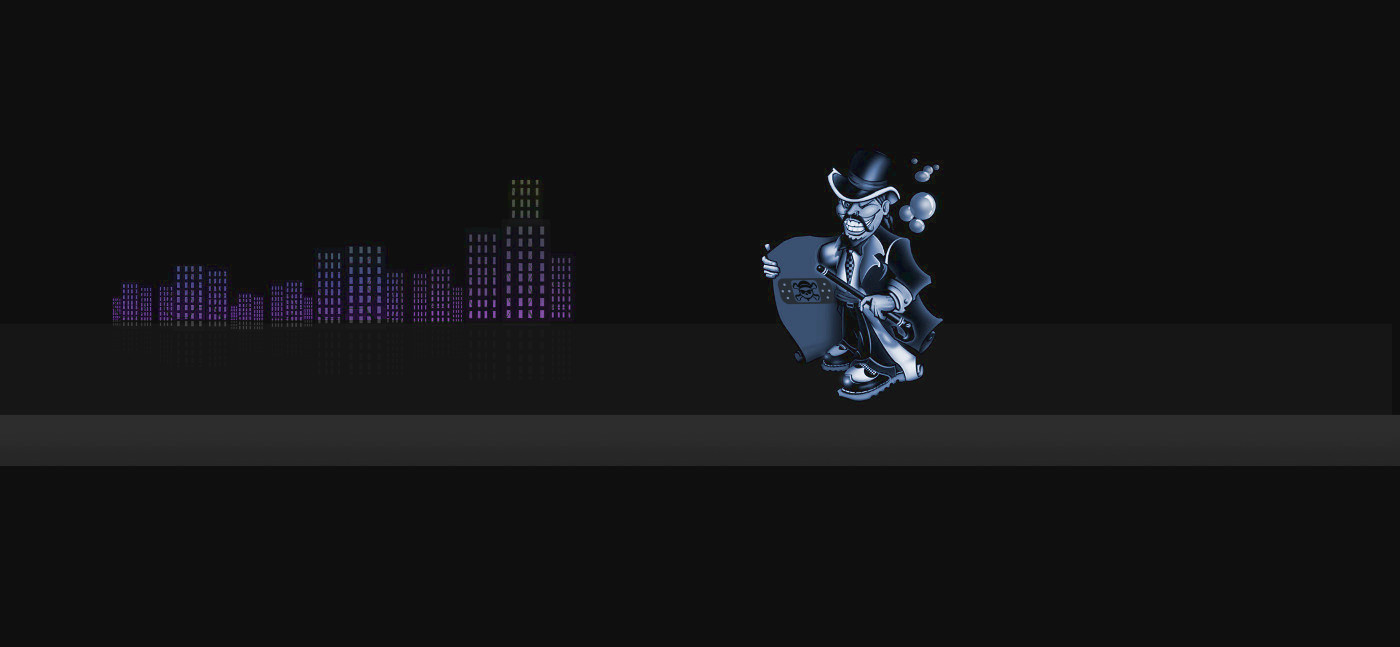
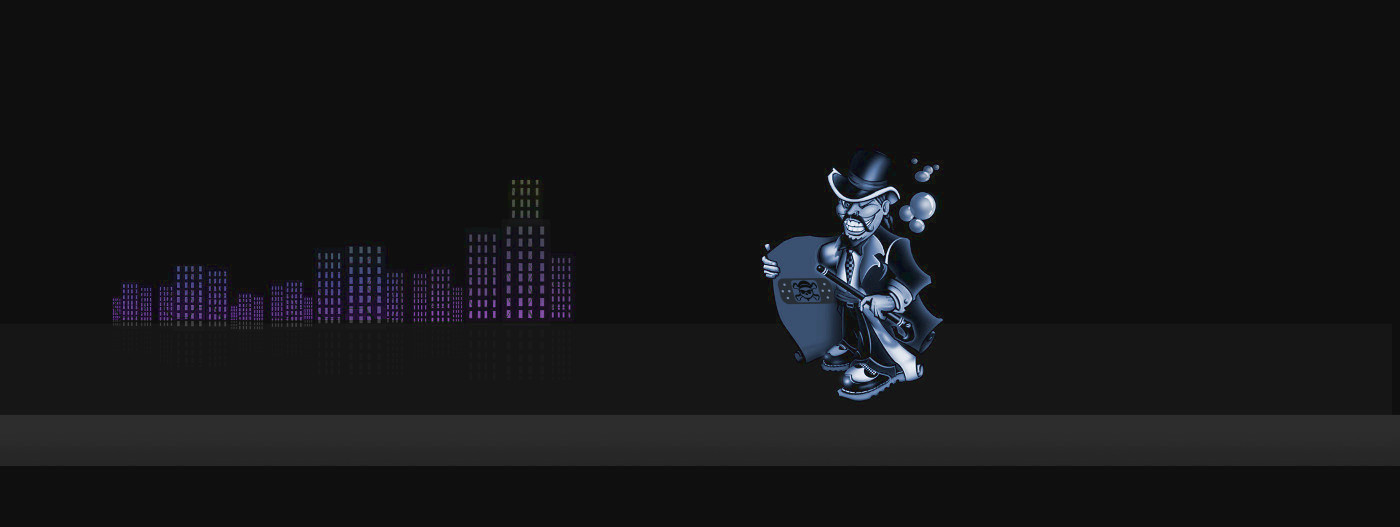
Merged most of var colors to base using CSS vars instead

diff --git a/src/css/index.css b/src/css/index.css
@@ -7,15 +7,33 @@
   -webkit-transition: .5s;
   transition: .5s; }
 
+mark,
+code,
 .current, .ul-nav li, .button-global, .button-light, .container-gallery .grid-gallery-cell {
   border-radius: 0.25rem; }
 
+:root {
+  --primary-color: #545b71;
+  --secondary-color: #0f0f0f;
+  --triadic-color: #000;
+  --accent-color: #3e4451;
+  --text-color: #ddeaf2;
+  --titles-color: #545b71;
+  --a-color: #ddeaf2;
+  --h-color: #90a4ae;
+  --p-color: #fff;
+  --theme1-color: #0f0f0f;
+  --theme2-color: #272b35;
+  --container-color: #1e1f24; }
+
 html {
-  background: #545b71;
-  color: #ddeaf2;
-  font-family: "Open Sans", "Helvetica Neue Light", "Helvetica Neue", "Helvetica", "Arial", sans-serif;
   font-size: 100%;
   line-height: 1.5; }
+
+body {
+  background-color: var(--triadic-color);
+  color: var(--text-color);
+  font-family: "Open Sans", "Helvetica Neue Light", "Helvetica Neue", "Helvetica", "Arial", sans-serif; }
 
 *,
 *::before,
@@ -37,14 +55,13 @@ img {
 mark,
 code,
 .current {
-  background-color: #545b71;
-  color: black;
+  background-color: var(--accent-color);
   padding: 0.25rem; }
 
 h1,
 h2,
 h3 {
-  color: #b0c4df;
+  color: var(--h-color);
   font-weight: 700; }
 
 .h1-header {
@@ -52,12 +69,12 @@ h3 {
   text-align: center; }
 
 .titles {
-  color: #545b71;
+  color: var(--titles-color);
   margin: 1.25rem 0;
   text-align: center; }
 
 .header-section {
-  background-color: #0f0f0f;
+  background-color: var(--container-color);
   grid-area: headerTem; }
 
 .logo-icon,
@@ -67,7 +84,7 @@ h3 {
   margin: 1rem auto; }
 
 .nav-section {
-  background-color: #272b35;
+  background-color: var(--theme2-color);
   grid-area: navTem;
   height: calc(12.5rem + 3.125rem);
   overflow: hidden;
@@ -90,7 +107,7 @@ h3 {
     .ul-nav li:hover {
       background-color: #545b71; }
   .ul-nav a {
-    color: #ddeaf2;
+    color: var(--a-color);
     display: block;
     padding: 0.5rem 1.25rem;
     text-align: center; }
@@ -99,7 +116,7 @@ h3 {
   height: 0; }
 
 .hero-section {
-  background-color: #0f0f0f;
+  background-color: var(--theme1-color);
   grid-area: heroTem; }
 
 .hero-image, .landing-page {
@@ -113,15 +130,15 @@ h3 {
   min-height: 60vh; }
 
 .sidebar1-section {
-  background-color: #272b35;
+  background-color: var(--theme2-color);
   grid-area: sidebar1Tem; }
 
 .sidebar2-section {
-  background-color: #272b35;
+  background-color: var(--theme2-color);
   grid-area: sidebar2Tem; }
 
 .main-section {
-  background-color: #272b35;
+  background-color: var(--theme2-color);
   grid-area: mainTem; }
 
 .open-section {
@@ -152,7 +169,7 @@ h3 {
     font-size: 2.5rem; }
 
 .footer-section {
-  background-color: #0f0f0f;
+  background-color: var(--theme1-color);
   grid-area: footerTem;
   text-align: center; }
 
@@ -174,7 +191,7 @@ h3 {
     color: #0f0f0f; }
 
 .container-display, .container-gallery {
-  background-color: #1e1f24;
+  background-color: var(--container-color);
   display: grid; }
 
 .container-display {

diff --git a/src/scss/a_core_helpers/_a-variables.scss b/src/scss/a_core_helpers/_a-variables.scss
@@ -1,30 +1,24 @@
 // Sass variables
-// ------------------------------- @COLORES ----------------------------------
+// ------------------------------- @COLORS ----------------------------------
 // Basic:
 $black: rgba(0, 0, 0, 1);
-$grey: rgba(153, 153, 153, 1);
-$orange: rgba(255, 165, 0, 1);
-$purple: rgba(128, 0, 128, 1);
-$red: rgba(255, 0, 0, 1);
+$orange: rgba(255, 165, 0, 1); // Basically I use this for testing
+$red: rgba(255, 0, 0, 1);  // Basically I use this for testing
 $white: rgba(255, 255, 255, 1);
+
+// Final CSS color variables are in _d-base.scss
+// Might merge all colors to base instead?
 
 // Named:
 $cement: rgba(84, 91, 113, 1);
-$cement-dark: rgba(39, 43, 53, 1);
 $fog: rgba(221, 234, 242, 1);
-$grisaille: rgba(144, 164, 174, 1);
+$grey: rgba(153, 153, 153, 1);
+$cloud: rgba(144, 164, 174, 1);
 $charcoal: rgba(30, 31, 36, 1);
 $mist: rgba(176, 196, 223, 1);
 $midnight: rgba(15, 15, 15, 1);
 
-// Container's Colors:
-$body-html-color: $cement;
-$container-color: $charcoal;
-$global-theme-color: $black;
-$theme1-color: $midnight;
-$theme2-color: $cement-dark;
-
-// ------------------------------- @FONTS --------------  ----------------------
+// ------------------------------- @FONTS --------------------------------------
 
 // $unique-font: 'SomeGoogleFontETC', cursive;
 
@@ -32,14 +26,6 @@ $theme2-color: $cement-dark;
 $text-font-stack: 'Open Sans', 'Helvetica Neue Light', 'Helvetica Neue', 'Helvetica', 'Arial', sans-serif !default;
 // Code (monospace) font family
 $code-font-stack: 'Courier New', 'DejaVu Sans Mono', 'Bitstream Vera Sans Mono', 'Monaco', monospace !default;
-
-//Typography Colors:
-$a-color: $fog;
-$h-color: $mist;
-$li-color: $orange;
-$p-color: $white;
-$text-color: $fog;
-$titles-color: $cement;
 
 // ----------------------------- @GLOBAL SIZES ---------------------------------
 //Based on 16px:

diff --git a/src/scss/a_core_helpers/_d-base.scss b/src/scss/a_core_helpers/_d-base.scss
@@ -1,19 +1,38 @@
-// The Base:, basically a simple reset file. Comment-out, delete and or compare
-// This file with other vendor resets.
+// The Base: If using other vendor resets, comment-out, delete and or compare
+// this file with other vendor resets.
+// Sass/SCSS linters give an error due to the :root/CSS vars.
 // -----------------------------------------------------------------------------
 
-//:root {}
+:root {
+  // Base Color CSS Variables:
+  --primary-color: #545b71;
+  --secondary-color: #0f0f0f;
+  --triadic-color: #000;
+  --accent-color: #3e4451;
 
-//body {}
+  // Typography Colors:
+  --text-color: #ddeaf2;
+  --titles-color: #545b71;
+  --a-color: #ddeaf2;
+  --h-color: #90a4ae;
+  --p-color: #fff;
+
+  // Cntainers/Themes:
+  --theme1-color:#0f0f0f;
+  --theme2-color:#272b35;
+  --container-color: #1e1f24;
+}
 
 html {
-  background: $body-html-color;
-  color: $text-color;
-  font-family: $text-font-stack;
   font-size: 100%;
   line-height: 1.5;
 }
 
+body {
+  background-color: var(--triadic-color);
+  color: var(--text-color);
+  font-family: $text-font-stack;
+}
 //----------------------------- Basic Reset-------------------------------------
 // Might want to comment out and or compare with vendor resets:
 *,
@@ -40,12 +59,7 @@ img {
 mark,
 code,
 .current {
-  background-color: $cement;
-  color: $black;
+  @extend %global-border-radius;
+  background-color: var(--accent-color);
   padding: $size-4;
   }
-
-// Styles for the current state links:
-.current {
-  @extend %global-border-radius;
-   }

diff --git a/src/scss/b_layout/_b-nav.scss b/src/scss/b_layout/_b-nav.scss
@@ -1,7 +1,7 @@
 // Hamburger icon and ul-nav toggle; Tweak this height to a specific
 // size to toggle the nav menu's height:
 .nav-section {
-  background-color: $theme2-color;
+  background-color: var(--theme2-color);
   grid-area: navTem;
   height: calc(#{$size-200} + #{$size-50}); //250px
   overflow: hidden;
@@ -24,7 +24,7 @@
   }
 
   a {
-    color: $a-color;
+    color: var(--a-color);
     display: block;
     padding: $size-8 $size-20;
     text-align: center;

diff --git a/src/landing.html b/src/landing.html
@@ -37,7 +37,7 @@
 <img src="images/icons/hamburger-icon.svg" class="hamburger-icon" alt="Menu Icon">
 <nav class="nav-section toggle">
 <ul class="ul-nav">
-<li><a href="index.html">Home</a></li>
+<li><a href="index.html" class="current">Home</a></li>
 <li><a href="about.html">About</a></li>
 <li><a href="blog.html">Blog</a></li>
 <li><a href="yard.html">Yard</a></li>

diff --git a/src/scss/a_core_helpers/_e-typography.scss b/src/scss/a_core_helpers/_e-typography.scss
@@ -3,12 +3,11 @@
 h1,
 h2,
 h3 {
-  color: $h-color;
+  color: var(--h-color);
   font-weight: 700;
 }
 
 .h1-header {
-  // float: left; // put this on media queries
   margin: $size-30;
   text-align: center;
 
@@ -18,7 +17,7 @@ h3 {
 }
 
 .titles {
-  color: $titles-color;
+  color: var(--titles-color);
   margin: $size-20 0;
   text-align: center;
  }

diff --git a/src/scss/b_layout/_d-sidebars.scss b/src/scss/b_layout/_d-sidebars.scss
@@ -1,11 +1,11 @@
 // Thee Sidebars sections:
 
 .sidebar1-section {
-  background-color: $theme2-color;
+  background-color: var(--theme2-color);
   grid-area: sidebar1Tem;
 }
 
 .sidebar2-section {
-  background-color: $theme2-color;
+  background-color: var(--theme2-color);
   grid-area: sidebar2Tem;
 }

diff --git a/src/scss/d_stationery/_f-containers.scss b/src/scss/d_stationery/_f-containers.scss
@@ -2,7 +2,7 @@
 // display: grid | inline-grid | subgrid;
 %container-init {
   @extend %global-padding;
-  background-color: $container-color;
+  background-color: var(--container-color);
   display: grid;
 }
 

diff --git a/src/scss/b_layout/_c-hero.scss b/src/scss/b_layout/_c-hero.scss
@@ -1,6 +1,6 @@
 // Hero Section, It could also be used for sliders, ads etc..
 .hero-section {
-  background-color: $theme1-color;
+  background-color: var(--theme1-color);
   grid-area: heroTem;
 }
 

diff --git a/src/scss/b_layout/_z-footer.scss b/src/scss/b_layout/_z-footer.scss
@@ -1,7 +1,7 @@
 // Thee Footsie:
 
 .footer-section {
-  background-color: $theme1-color;
+  background-color: var(--theme1-color);
   grid-area: footerTem;
   text-align: center;
 }

diff --git a/src/scss/b_layout/_a-header.scss b/src/scss/b_layout/_a-header.scss
@@ -1,6 +1,6 @@
 // Header Section:
 .header-section {
-  background-color: $theme1-color;
+  background-color: var(--container-color);
   grid-area: headerTem;
 }
 

diff --git a/src/scss/b_layout/_e-main.scss b/src/scss/b_layout/_e-main.scss
@@ -1,6 +1,6 @@
 // Main Section:
 
 .main-section {
-  background-color: $theme2-color;
+  background-color: var(--theme2-color);
   grid-area: mainTem;
 }
